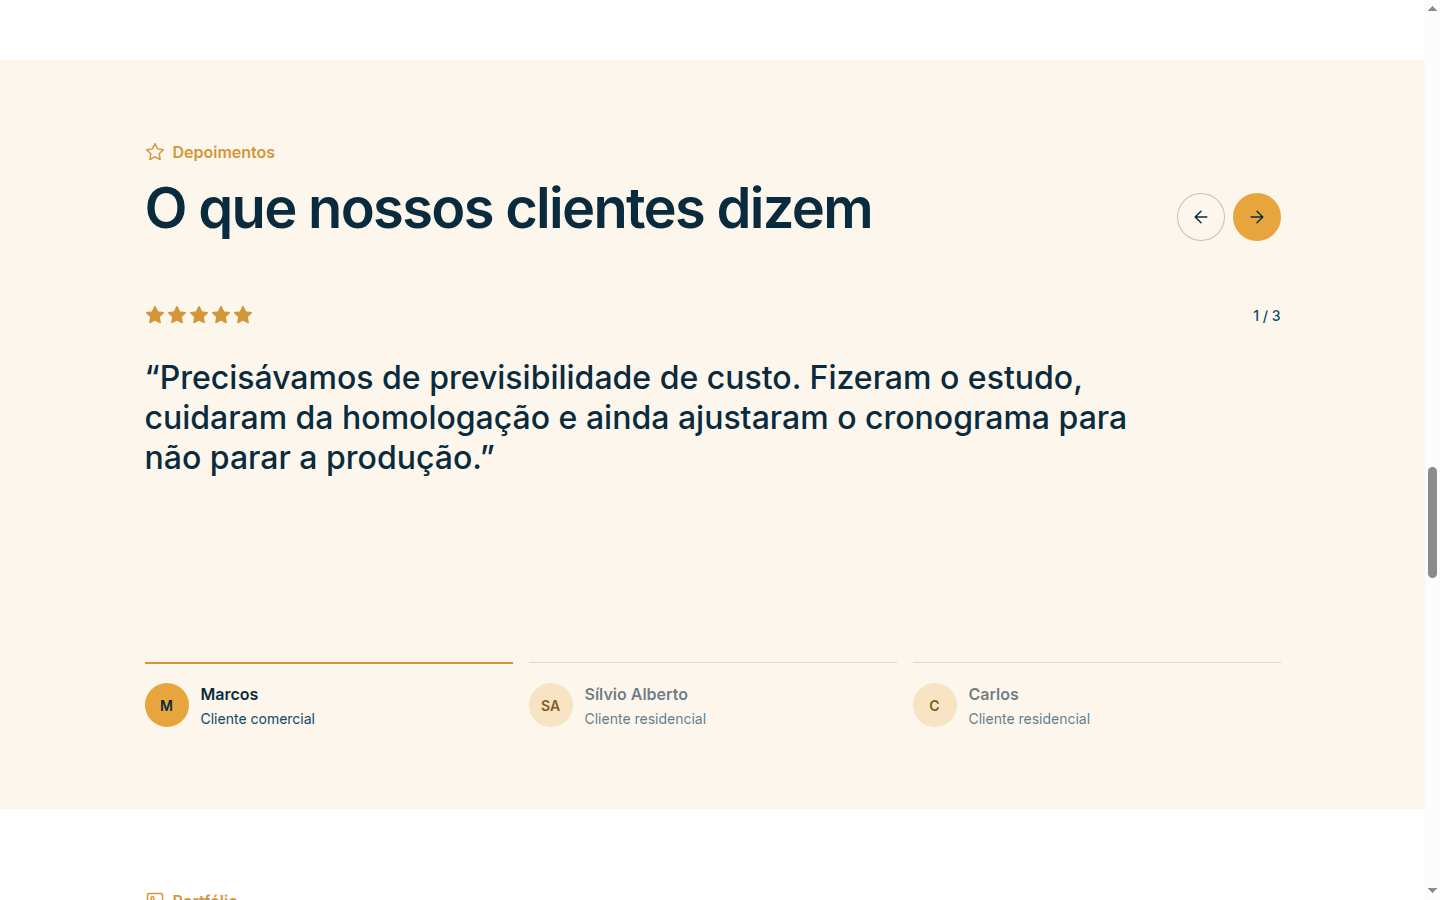
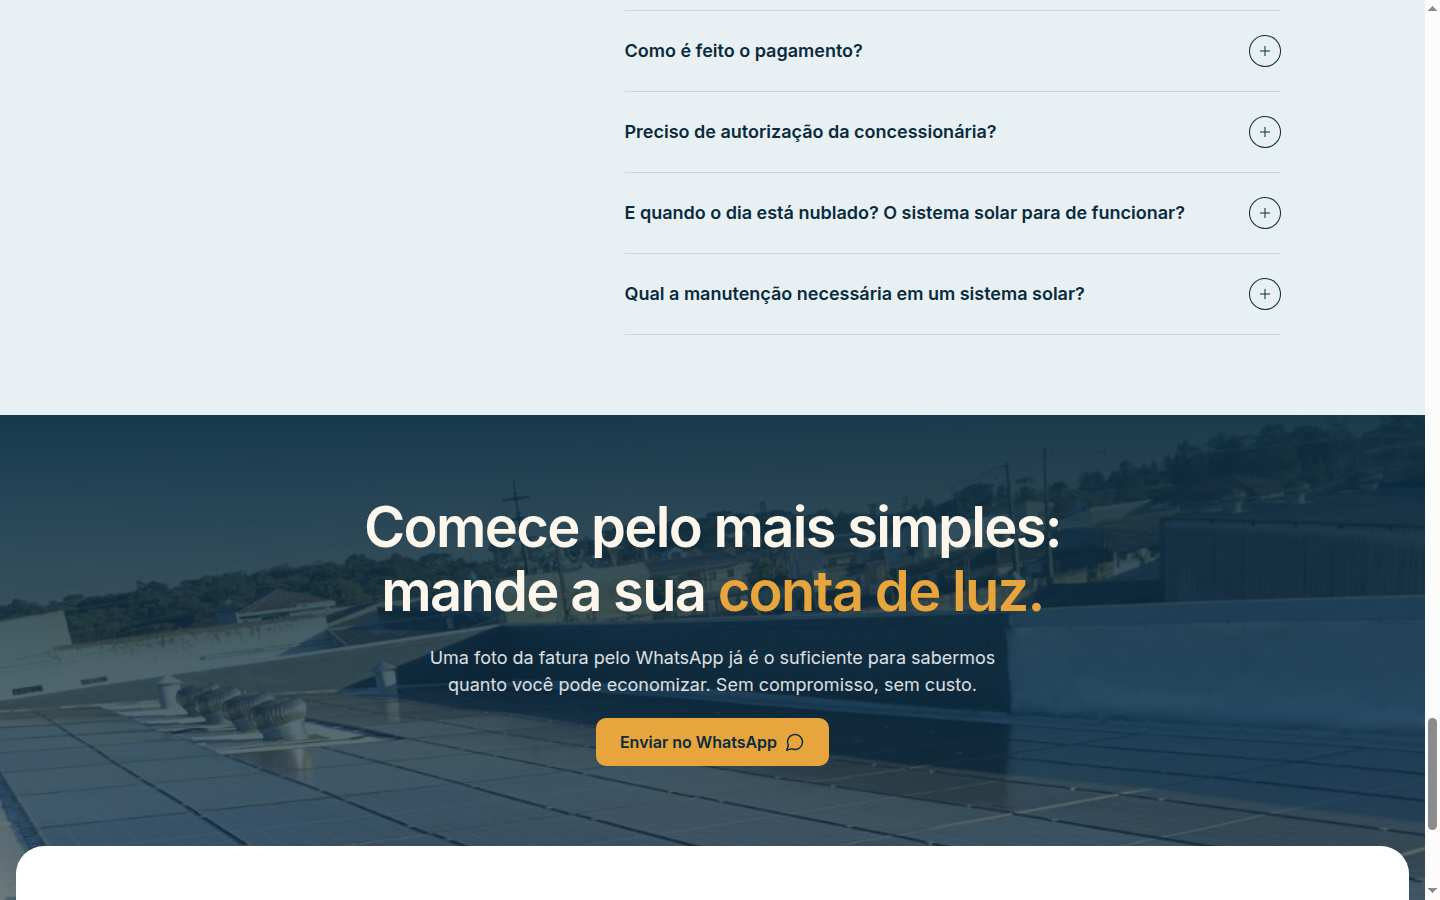
feat(cta): add reveal animation to the final CTA

diff --git a/src/scripts/motion.ts b/src/scripts/motion.ts
@@ -49,22 +49,32 @@ export function splitWords(el: HTMLElement) {
  * Section header entrance, shared by the sections: the tag fades up, the title words rise from
  * behind their masks, then the remaining `[data-reveal]` items (button, text) follow almost
  * together. Marked with `data-reveal` (tag first), `data-reveal-title` and played once when the
- * header reaches 80% of the viewport.
+ * header reaches 80% of the viewport. Pass `{ tag: false }` for a block without a tag.
  */
-export function revealHeader(header: HTMLElement) {
-  const [tag, ...rest] = header.querySelectorAll<HTMLElement>('[data-reveal]');
+export function revealHeader(header: HTMLElement, { tag: hasTag = true } = {}) {
+  const items = [...header.querySelectorAll<HTMLElement>('[data-reveal]')];
+  // With a tag it is the first `[data-reveal]`; without one (a CTA) everything follows the title.
+  const tag = hasTag ? items.shift() : undefined;
+  const rest = items;
   const words = splitWords(header.querySelector<HTMLElement>('[data-reveal-title]')!);
 
-  gsap.set([tag, ...rest], { autoAlpha: 0, y: 18 });
+  gsap.set([...(tag ? [tag] : []), ...rest], { autoAlpha: 0, y: 18 });
   ScrollTrigger.create({
     trigger: header,
     start: 'top 80%',
     once: true,
     onEnter: () => {
-      const tl = gsap
-        .timeline()
-        .to(tag, { autoAlpha: 1, y: 0, duration: 0.7, ease: 'power3.out', clearProps: 'transform' })
-        .to(words, { yPercent: 0, duration: 0.9, ease: 'power4.out', stagger: 0.05 }, 0.1);
+      const tl = gsap.timeline();
+      if (tag) {
+        tl.to(tag, {
+          autoAlpha: 1,
+          y: 0,
+          duration: 0.7,
+          ease: 'power3.out',
+          clearProps: 'transform',
+        });
+      }
+      tl.to(words, { yPercent: 0, duration: 0.9, ease: 'power4.out', stagger: 0.05 }, 0.1);
       if (rest.length) {
         tl.to(
           rest,
